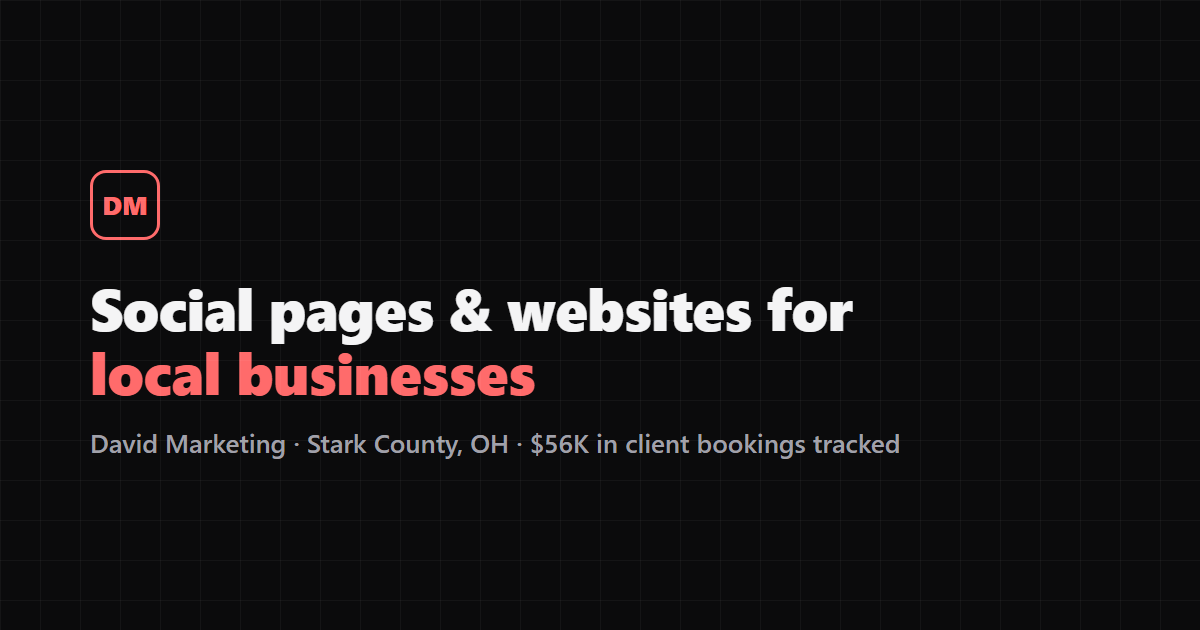
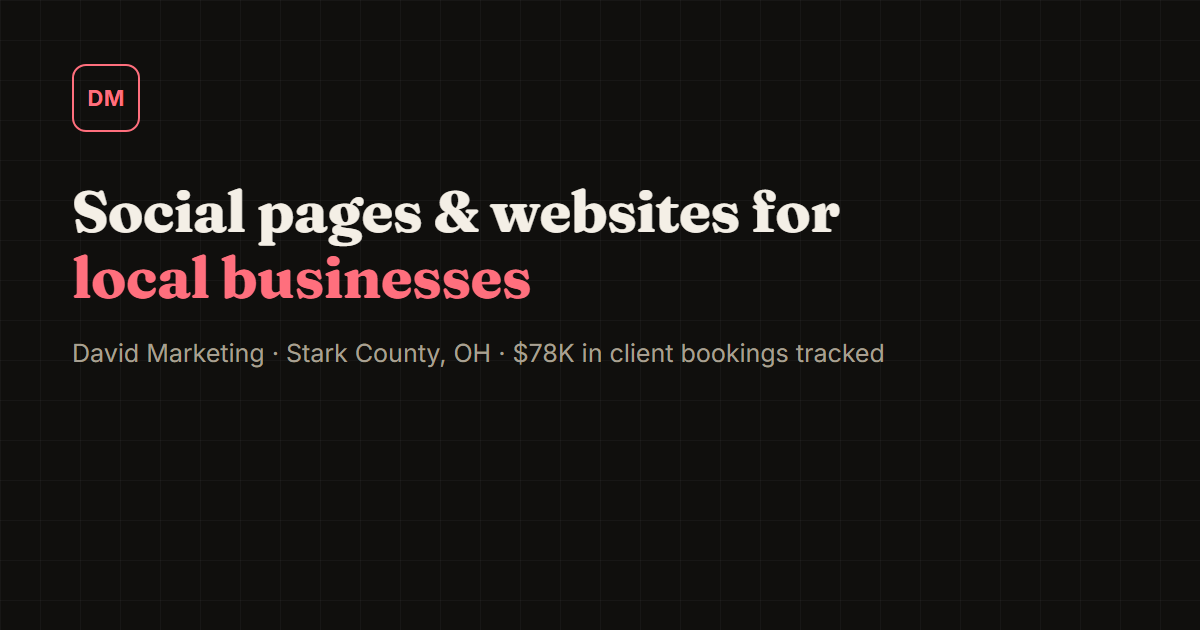
Round 2 critique fixes: og-image matches live $78K, reply-time promise, founder line, honest add-on pricing, mobile wrap fixes
- assets/og-image.png regenerated: shared preview said $56K while the live page says $78K (flagged as the single biggest trust risk by round 2 reviewer 3); now matches
- Added a reply-time promise ("We reply within one business day") directly under the lead form and in the intro copy, requested by all three reviewers
- Added a founder line naming David in the about section, addressing "no name/face behind the reachability claim"
- Reframed add-on pricing (FAQ + contact price box) to explain when/how ads, websites and email/SMS get quoted, instead of a bare "priced separately"
- Added a "prefer to talk it through" line offering a call via DM/email, since no real phone number exists to publish (site was built without one deliberately, per prior privacy decision)
- Clarified the $78K stat adds up "client by client, post by post," addressing the "one big account?" doubt without inventing unverifiable specifics
- Shortened the mobile submit button and footer nav label so neither wraps awkwardly at 390px
- Added priceRange to LocalBusiness schema using the already-public $500/mo figure

Not done (would require fabricating data not available): a real phone number, the business's own Facebook Page URL, a named client testimonial, an ad/analytics pixel ID, and a start date for the $78K figure. All were deliberately left out rather than invented, per the no-fake-numbers rule.

Changed region(s): [[0.0617, 0.2714, 0.74, 0.6333], [0.0617, 0.6937, 0.7708, 0.7238], [0.0617, 0.0905, 0.1233, 0.2111]]

diff --git a/index.html b/index.html
@@ -35,6 +35,7 @@
   "description": "Social media management, ads and websites for local businesses in and around Stark County, Ohio.",
   "url": "https://thedavidmarketing.com/",
   "email": "thedavidmarketing@outlook.com",
+  "priceRange": "$500/mo",
   "areaServed": { "@type": "AdministrativeArea", "name": "Stark County, OH" },
   "sameAs": ["https://www.instagram.com/thedavidmarketing/"]
 }
@@ -184,7 +185,7 @@
       </div>
       <div class="proof-copy">
         <h2>We count bookings, not likes.</h2>
-        <p>Likes are nice. Bookings pay the bills. Every post and offer gets its own trackable link or code, so every booking we report traces back to the exact post that brought it in.</p>
+        <p>Likes are nice. Bookings pay the bills. That number adds up client by client, post by post &mdash; every post and offer gets its own trackable link or code, so every booking we report traces back to the exact post that brought it in.</p>
         <p class="proof-note">Serving small businesses in and around Stark County, Ohio.</p>
       </div>
     </div>
@@ -212,6 +213,7 @@
         <p class="eyebrow">Who you work with</p>
         <h2>A local team you can actually reach</h2>
         <p>David Marketing is a small, hands-on agency for local businesses. You talk directly with the people doing the work, and you always know what is being posted and why.</p>
+        <p class="about-signature"><strong>David</strong> started this agency after watching good local businesses lose bookings simply because nobody had time to mind the page. That is still the whole job today.</p>
         <a class="btn btn-ghost" href="https://www.instagram.com/thedavidmarketing/" target="_blank" rel="noopener">Follow @thedavidmarketing</a>
       </div>
     </div>
@@ -226,7 +228,7 @@
       <div class="faq-list">
         <details class="faq-item"><summary>What kinds of businesses do you work with?</summary><p>Local small businesses, especially service businesses that take bookings, in and around Stark County, Ohio.</p></details>
         <details class="faq-item"><summary>How do I get started?</summary><p>Fill out the form below or DM us on Instagram with your page name. We do a free check and tell you exactly what we see.</p></details>
-        <details class="faq-item"><summary>What does the monthly plan include?</summary><p>Posting, replies to comments and messages, and a monthly report are the core, for $500/mo, month to month. Ads, websites and email or SMS are add-ons, priced separately once we know what you want.</p></details>
+        <details class="faq-item"><summary>What does the monthly plan include?</summary><p>Posting, replies to comments and messages, and a monthly report are the core, for $500/mo, month to month. Ads, websites and email or SMS are add-ons &mdash; each one is priced during your free page check, based on your ad budget or the size of the job, so you know the exact number before anything starts.</p></details>
         <details class="faq-item"><summary>Do you run ads or just posts?</summary><p>Both. Everyday posting and replies, plus Facebook and Instagram ads when your business is ready for them.</p></details>
         <details class="faq-item"><summary>How do I know it is working?</summary><p>Every post and offer gets its own trackable link or code, so when a booking comes in we can show you exactly which post earned it, every month.</p></details>
         <details class="faq-item"><summary>Will this help me show up on Google when someone searches near me?</summary><p>Yes. Setting up your Google Business listing, hours, photos, service area and review link, is part of the Websites service, so you show up in Google Search and Maps for people searching near you.</p></details>
@@ -239,12 +241,13 @@
       <div class="contact-copy">
         <p class="eyebrow">Free page check</p>
         <h2>Tell us about your business</h2>
-        <p>We will look at your page and get back to you with what we see and what we would change first.</p>
-        <p class="contact-price"><strong>Core plan: $500/mo, month to month.</strong> Ads, websites and email or SMS are added only when you are ready for them.</p>
+        <p>We will look at your page and get back to you with what we see and what we would change first, usually within one business day.</p>
+        <p class="contact-price"><strong>Core plan: $500/mo, month to month.</strong> Ads, websites and email or SMS are quoted during your free check, before you spend anything on them.</p>
         <ul class="contact-links">
           <li><a href="https://www.instagram.com/thedavidmarketing/" target="_blank" rel="noopener"><strong>Instagram</strong><span>@thedavidmarketing</span></a></li>
           <li><a href="mailto:thedavidmarketing@outlook.com"><strong>Email</strong><span>thedavidmarketing@outlook.com</span></a></li>
         </ul>
+        <p class="contact-note">Would rather talk it through? Message either one and we will set up a quick call.</p>
       </div>
 
       <form class="lead-form" id="lead" action="https://formsubmit.co/thedavidmarketing@outlook.com" method="POST">
@@ -270,7 +273,8 @@
           </label>
           <label class="span-2">Anything else we should know? <span class="opt">(optional)</span><textarea name="message" rows="4"></textarea></label>
         </div>
-        <button type="submit" class="btn btn-primary btn-wide">Send my free page check request</button>
+        <button type="submit" class="btn btn-primary btn-wide">Send my free page check</button>
+        <p class="reply-time">We reply within one business day.</p>
         <p class="form-fine">We only use this to reply to you. <a href="/privacy.html">How we handle your info</a>.</p>
       </form>
     </div>
@@ -287,7 +291,7 @@
     <div class="footer-links">
       <a href="https://www.instagram.com/thedavidmarketing/" target="_blank" rel="noopener">Instagram</a>
       <a href="mailto:thedavidmarketing@outlook.com">Email</a>
-      <a href="#contact">Free page check</a>
+      <a href="#contact">Free check</a>
       <a href="/privacy.html">Privacy</a>
     </div>
   </div>

diff --git a/assets/styles.css b/assets/styles.css
@@ -152,6 +152,8 @@ p { margin: 0 0 1em; }
 .note-label { font: 600 .74rem/1 var(--sans); letter-spacing: .12em; text-transform: uppercase; color: var(--accent); }
 .about-note p { font: 650 1.42rem/1.4 var(--serif); margin: 0; color: var(--ink); }
 .about-copy p { font-size: 1.1rem; color: var(--ink-2); max-width: 50ch; }
+.about-signature { font-size: 1rem; color: var(--ink-2); border-left: 3px solid var(--accent); padding-left: 16px; }
+.about-signature strong { color: var(--ink); font-family: var(--serif); font-weight: 650; }
 
 /* FAQ */
 .faq-wrap { display: grid; grid-template-columns: .8fr 1.2fr; gap: 64px; }
@@ -173,6 +175,7 @@ p { margin: 0 0 1em; }
 .contact-links span { color: var(--muted); font-size: .95rem; }
 .contact-price { background: var(--card); border: 1px solid var(--line); border-radius: 12px; padding: 14px 16px; margin: 22px 0 0; font-size: .96rem; color: var(--ink-2); }
 .contact-price strong { color: var(--ink); }
+.contact-note { margin: 16px 0 0; font-size: .93rem; color: var(--muted); }
 .lead-form { background: var(--card); border: 1px solid var(--line); border-radius: var(--radius); box-shadow: var(--shadow); padding: 30px; }
 .form-grid { display: grid; grid-template-columns: 1fr 1fr; gap: 16px 18px; margin-bottom: 22px; }
 .form-grid .span-2 { grid-column: 1 / -1; }
@@ -182,13 +185,14 @@ p { margin: 0 0 1em; }
 .lead-form textarea { resize: vertical; }
 .lead-form input:focus-visible, .lead-form select:focus-visible, .lead-form textarea:focus-visible { outline: 3px solid var(--focus); outline-offset: 1px; border-color: transparent; }
 .lead-form .hp { position: absolute; left: -9999px; width: 1px; height: 1px; opacity: 0; }
-.form-fine { margin: 12px 0 0; font-size: .85rem; color: var(--muted); text-align: center; }
+.reply-time { margin: 14px 0 0; font-size: .88rem; font-weight: 600; color: var(--accent); text-align: center; }
+.form-fine { margin: 6px 0 0; font-size: .85rem; color: var(--muted); text-align: center; }
 
 /* Footer */
 .site-footer { padding: 56px 0 32px; border-top: 1px solid var(--line); }
 .footer-inner { display: flex; justify-content: space-between; gap: 32px; flex-wrap: wrap; }
 .footer-inner p { color: var(--muted); max-width: 40ch; margin-top: 10px; }
-.footer-links { display: flex; gap: 22px; align-items: flex-start; }
+.footer-links { display: flex; flex-wrap: wrap; gap: 12px 22px; align-items: flex-start; }
 .footer-links a { text-decoration: none; font-weight: 600; }
 .footer-links a:hover { color: var(--accent); }
 .footer-copy { text-align: center; color: var(--muted); font-size: .85rem; margin: 36px 0 0; }
